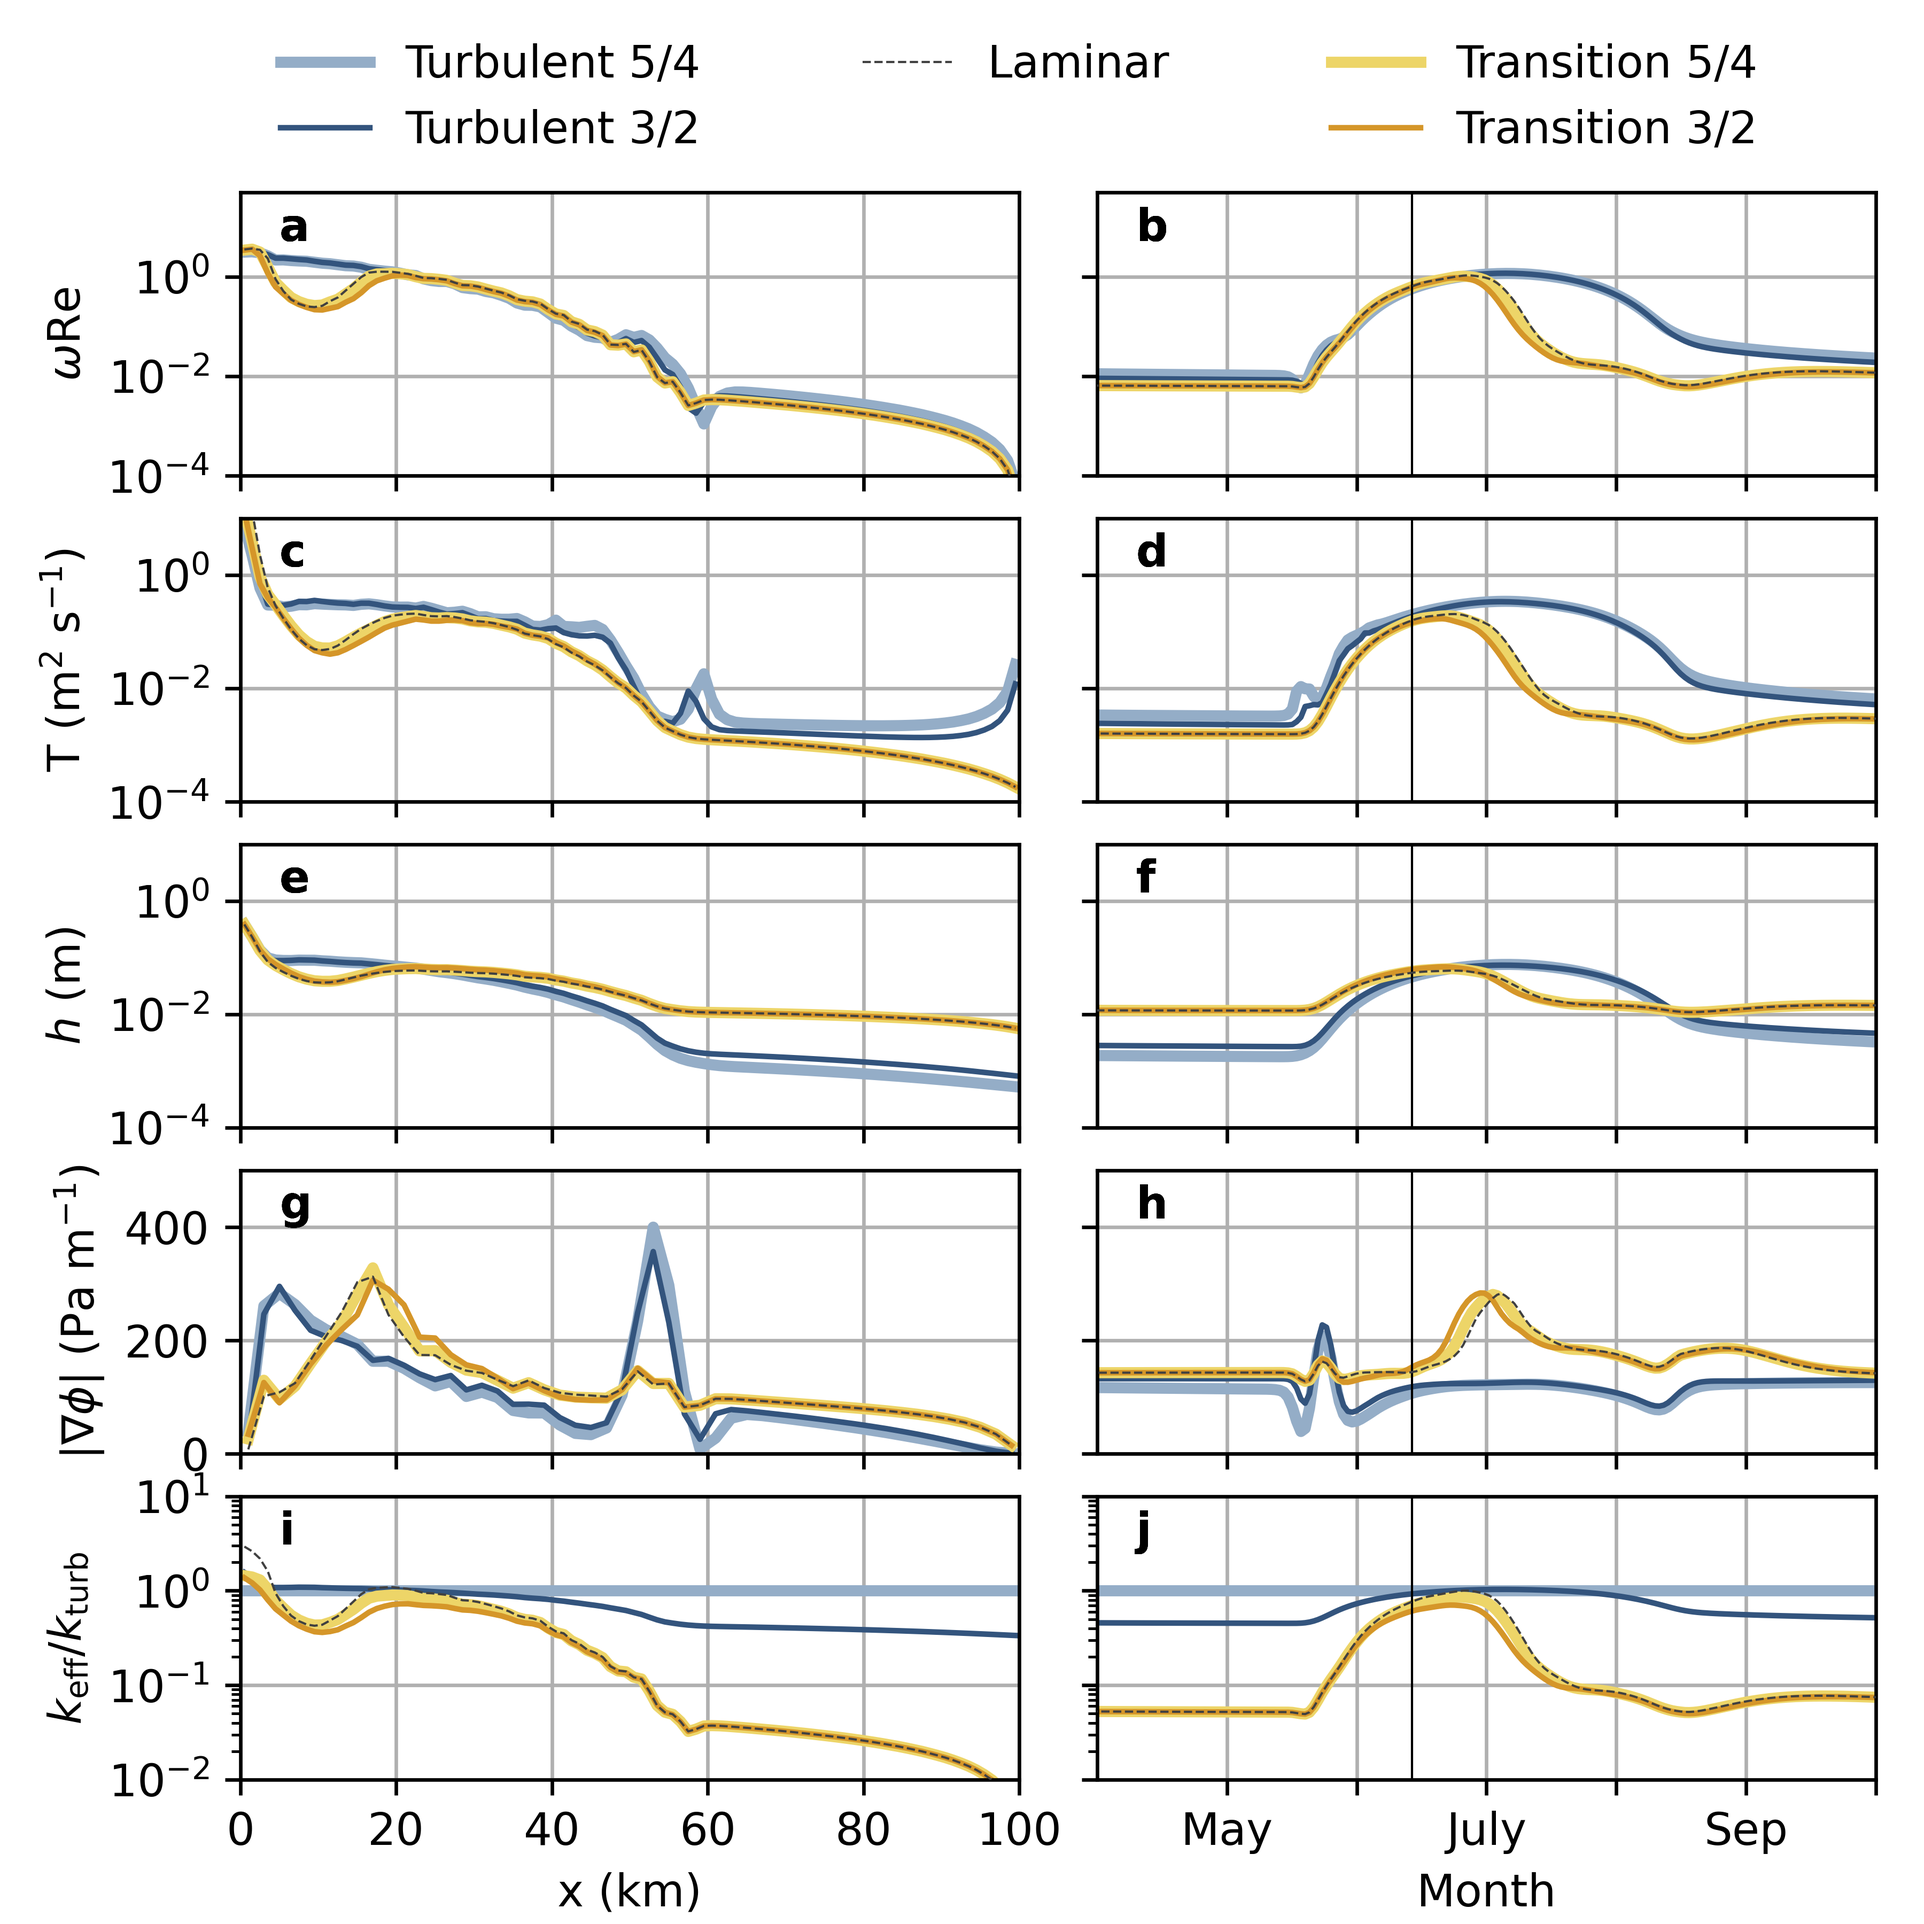
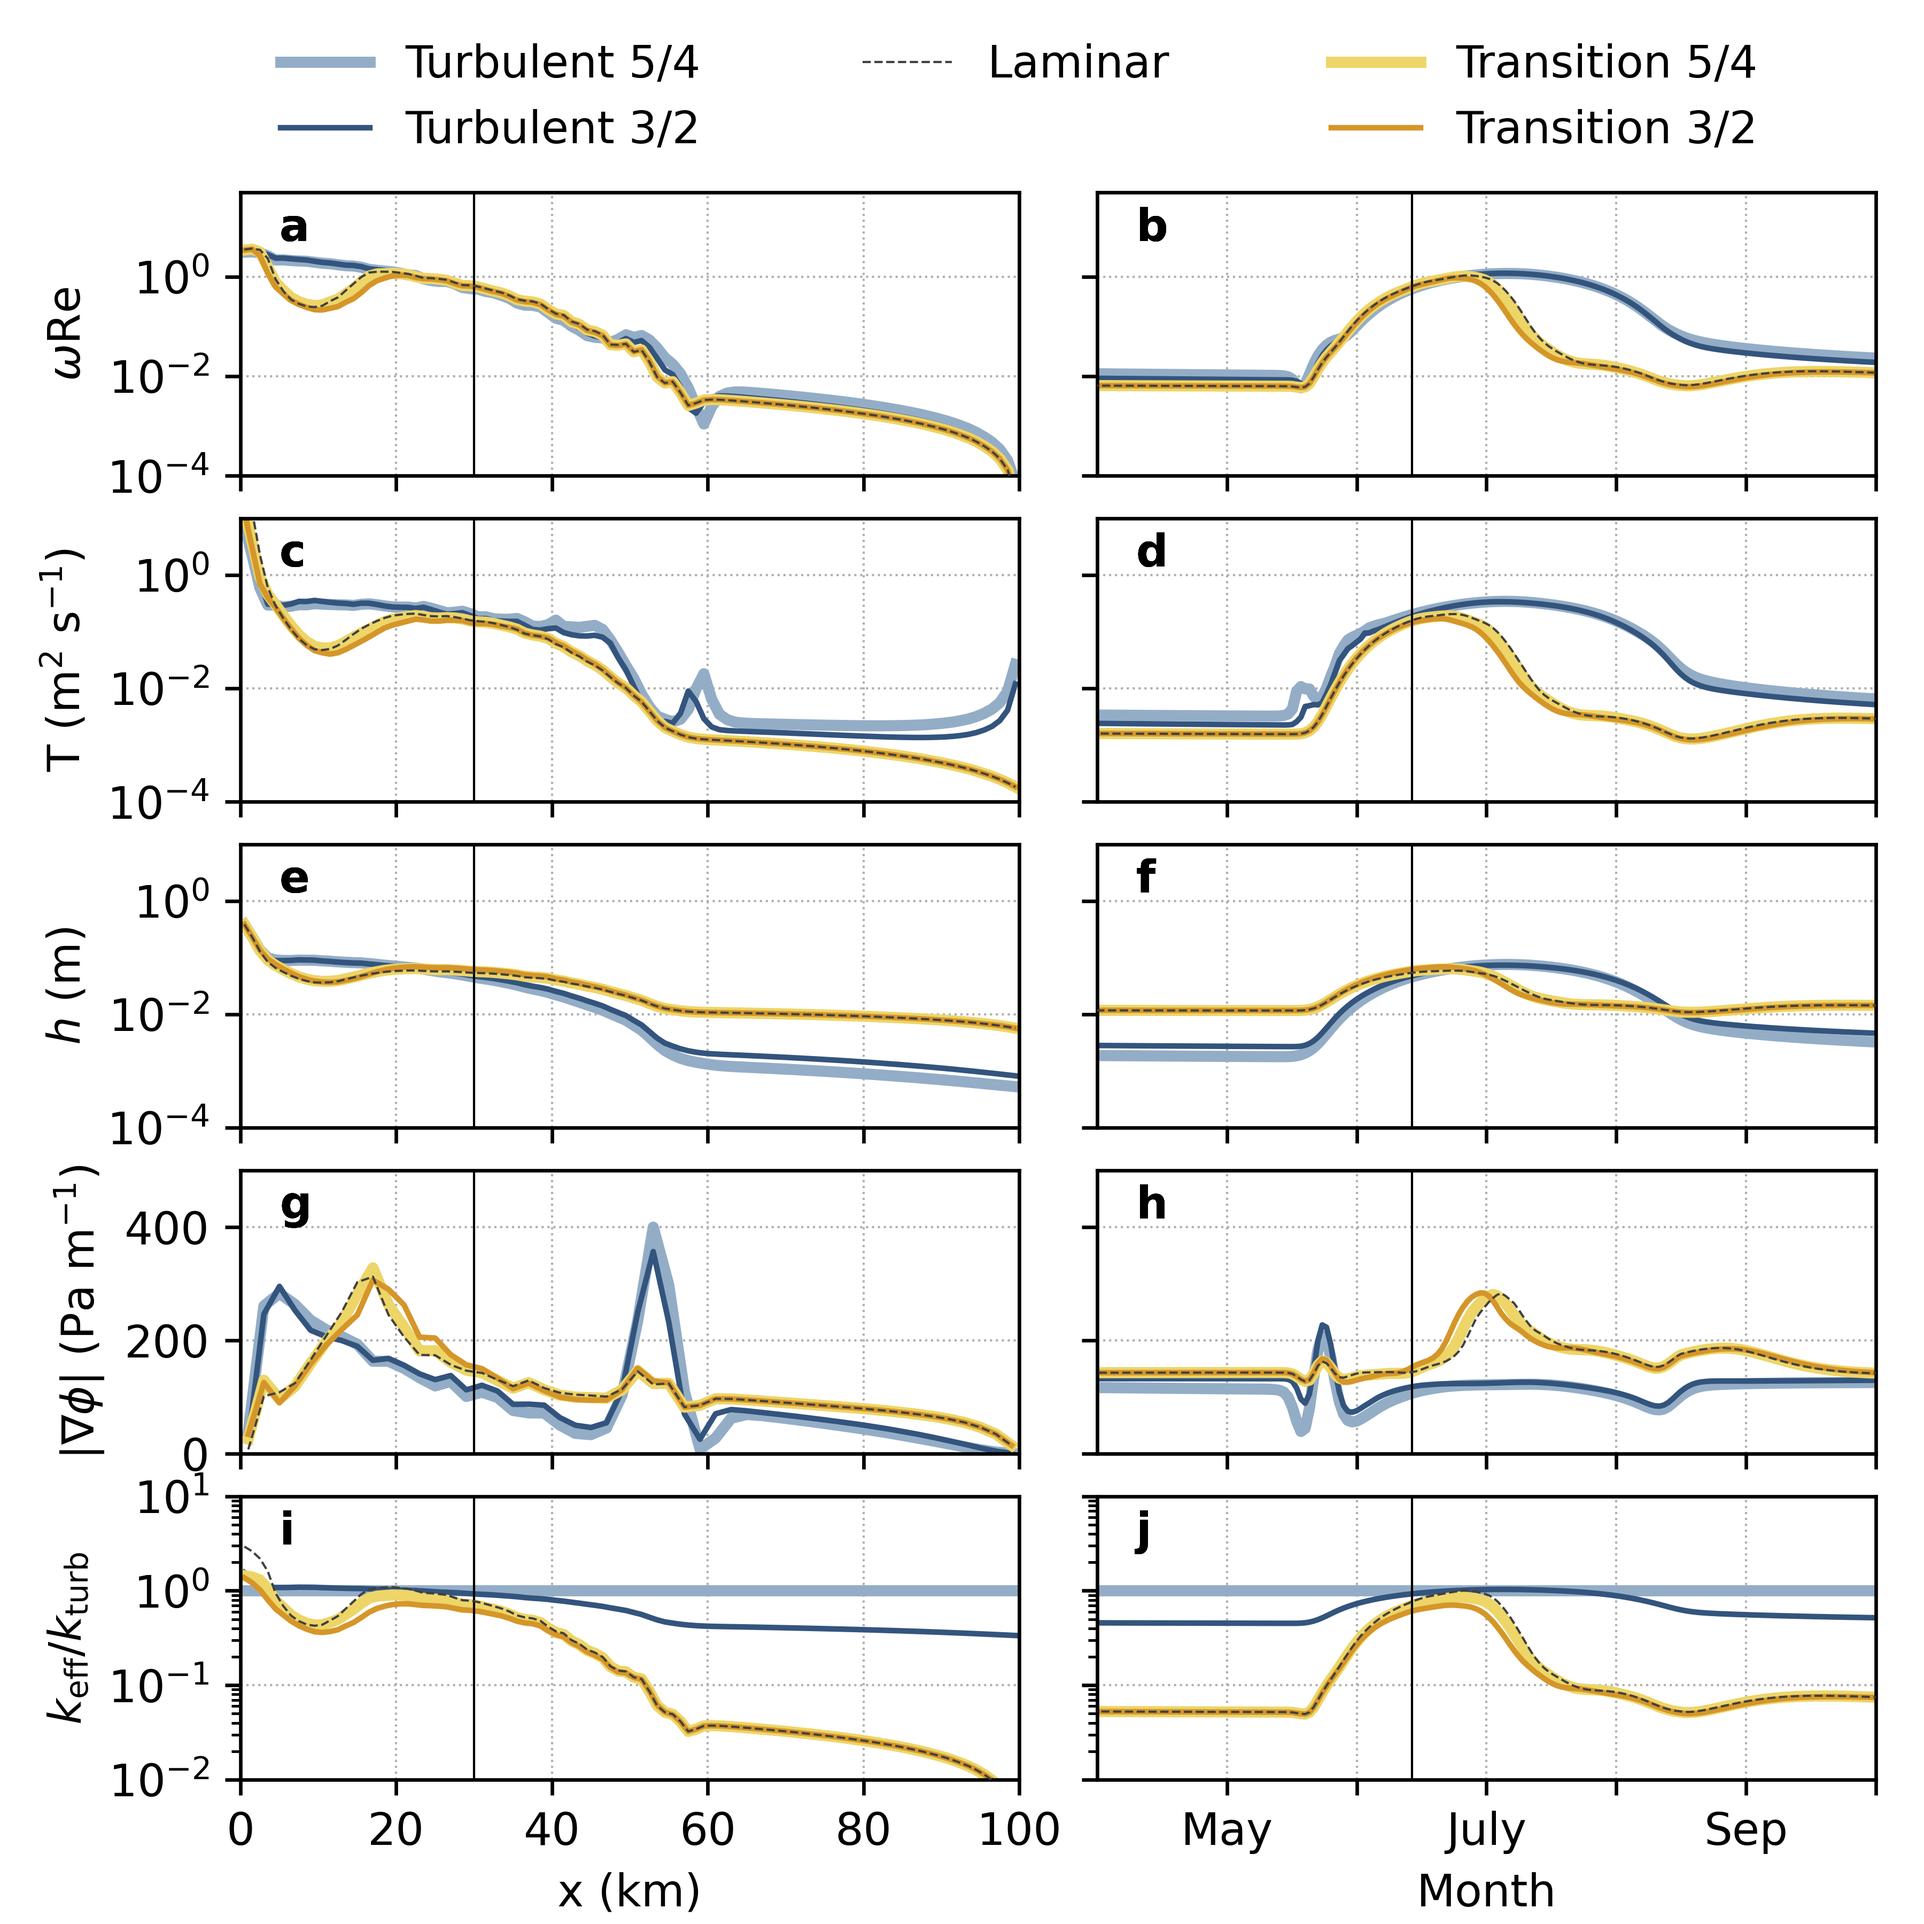
mechanisms

diff --git a/analysis/plot_mechanisms.py b/analysis/plot_mechanisms.py
@@ -264,16 +264,17 @@ def plot_mechanisms(fnames, figname, models, tslice=defaults.tslice,
     axs[-1, 1].set_xlabel('Month')
 
     for ax in axs[:, 0]:
-        ax.grid(True)
+        ax.grid(True, linewidth=0.5, linestyle=':')
 
         ax.set_xlim([0, 100])
         ax.set_xticks([0, 20, 40, 60, 80, 100])
         ax.set_xticklabels([])
+        ax.axvline(30, color='k', linewidth=0.5)
 
     ax.set_xticklabels(['0', '20', '40', '60', '80', '100'])
 
     for ax in axs[:, 1]:
-        ax.grid(True)
+        ax.grid(True, linewidth=0.5, linestyle=':')
         ax.set_xlim(tlim)
         ax.set_xticks(t_ticks)
         ax.set_xticklabels([])
